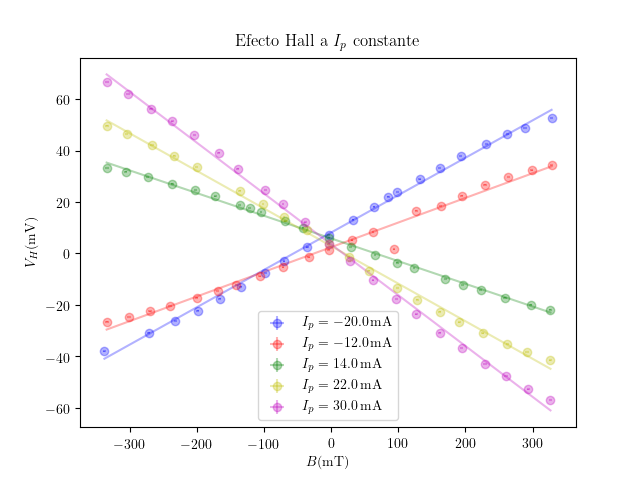
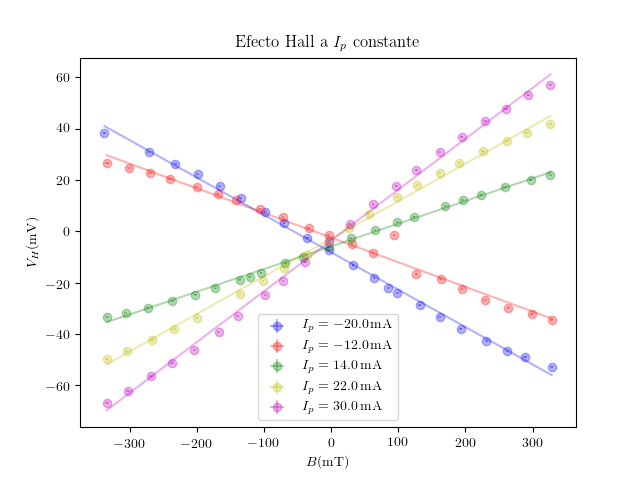
se corrigen incertidumbres

diff --git a/Laboratorio Avanzado/Efecto_Hall/actividad_2.py b/Laboratorio Avanzado/Efecto_Hall/actividad_2.py
@@ -12,16 +12,22 @@ data = np.array([np.genfromtxt("actividad_2_%.1f.txt" % I) for I in I_B])
 B = [ufloat(fit[0],1)*ufloat(I,0.01) + ufloat(fit[1],1) for I in I_B]
 B_nom = np.array([b.nominal_value for b in B])
 
+for i in range(0,len(data)):
+	data[i][:,1] = -data[i][:,1]
+
 fit = np.array([np.polyfit(data[i][:,0], data[i][:,1], 1) for i in range(0,len(data))])
 sigma_V = np.array([np.sqrt(np.sum((data[i][:,1]-fit[i][1]-fit[i][0]*data[i][:,0])**2)/(len(data[i])-2)) for i in range(0,len(data))])
 Delta = np.array([len(data[i])*np.sum(data[i][:,0]**2)-np.sum(data[i][:,0])**2 for i in range(0,len(data))])
 sigma_pendiente = np.array([sigma_V[i]*np.sqrt(len(data[i])/Delta[i]) for i in range(0,len(data))])
 sigma_intercepto = np.array([sigma_V[i]*np.sqrt(np.sum(data[i][:,0]**2)/Delta[i]) for i in range(0,len(data))])
+print(fit)
+print(sigma_pendiente)
+print(B)
 
-R = np.array([ufloat(fit[i][0], sigma_pendiente[i])*ufloat(0.001, 0.0005)/(B[i]/1000) for i in range(0,len(B))])
+R = np.array([ufloat(fit[i][0], sigma_pendiente[i])*ufloat(0.001, 0)/(B[i]/1000) for i in range(0,len(B))])
 
 for i in range(0,len(B_nom)):
-	print("Se tiene una resistencia de Hall de %s para el campo magnetico %s" % (R[i].format(".2u"), B[i].format(".2u")))
+	print("Se tiene una resistencia de Hall de %s para el campo magnetico %s" % (R[i].format(".1ueL"), B[i].format(".1uL")))
 
 colors = ["b", "r", "g", "y", "m"]
 fig, ax = plt.subplots()
@@ -41,16 +47,19 @@ data = np.array([np.genfromtxt("actividad_2_%d.txt" % I) for I in I_p])
 B = [[ufloat(fit[0],1)*ufloat(I_B,0.01) + ufloat(fit[1],1) for I_B in data[i][:,0]] for i in range(0,len(data))]
 B_nom = np.array([np.array([b.nominal_value for b in B[i]]) for i in range(0,len(B))])
 
+for i in range(0,len(data)):
+	data[i][:,1] = -data[i][:,1]
+
 fit = np.array([np.polyfit(B_nom[i], data[i][:,1], 1) for i in range(0,len(B_nom))])
 sigma_V = np.array([np.sqrt(np.sum((data[i][:,1]-fit[i][1]-fit[i][0]*B_nom[i])**2)/(len(B_nom[i])-2)) for i in range(0,len(B_nom))])
 Delta = np.array([len(B_nom[i])*np.sum(B_nom[i]**2)-np.sum(B_nom[i])**2 for i in range(0,len(B_nom))])
 sigma_pendiente = np.array([sigma_V[i]*np.sqrt(len(B_nom[i])/Delta[i]) for i in range(0,len(B_nom))])
 sigma_intercepto = np.array([sigma_V[i]*np.sqrt(np.sum(B_nom[i]**2)/Delta[i]) for i in range(0,len(B_nom))])
 
-R = np.array([ufloat(fit[i][0], sigma_pendiente[i])*ufloat(0.001, 0.0005)/(ufloat(I_p[i], 1)/1000) for i in range(0,len(I_p))])
+R = np.array([ufloat(fit[i][0], sigma_pendiente[i])*ufloat(0.001, 0)/(ufloat(I_p[i], 1)/1000) for i in range(0,len(I_p))])
 
 for i in range(0,len(B_nom)):
-	print("Se tiene una resistencia de Hall de %s para la corriente transversal %f" % (R[i].format(".2u"), I_p[i]))
+	print("Se tiene una resistencia de Hall de %s para la corriente transversal %f" % (R[i].format(".1ueL"), I_p[i]))
 
 colors = ["b", "r", "g", "y", "m"]
 fig, ax = plt.subplots()
